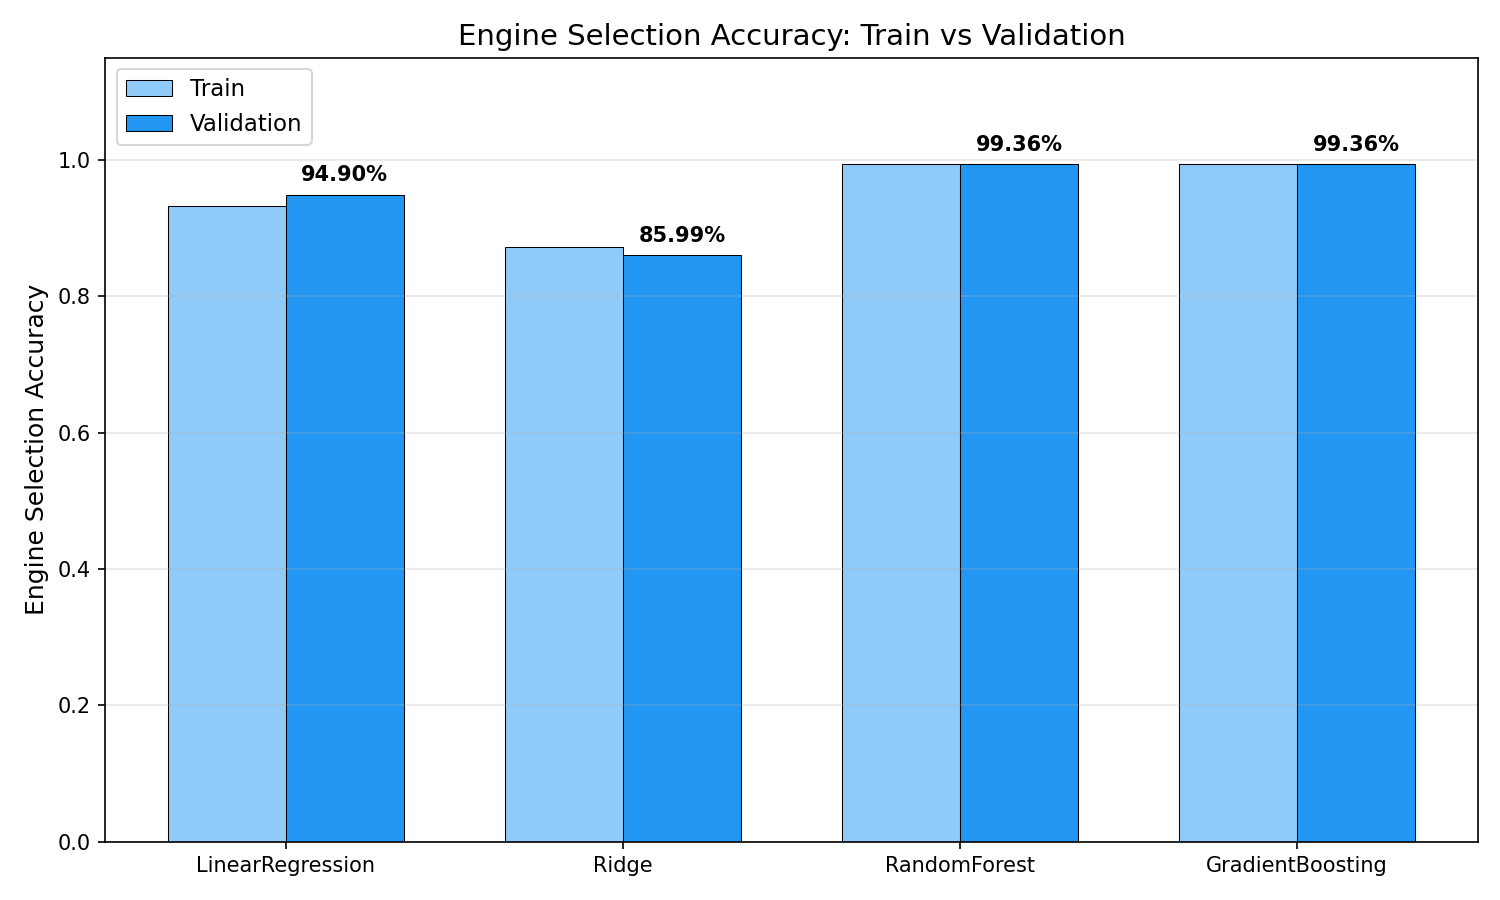
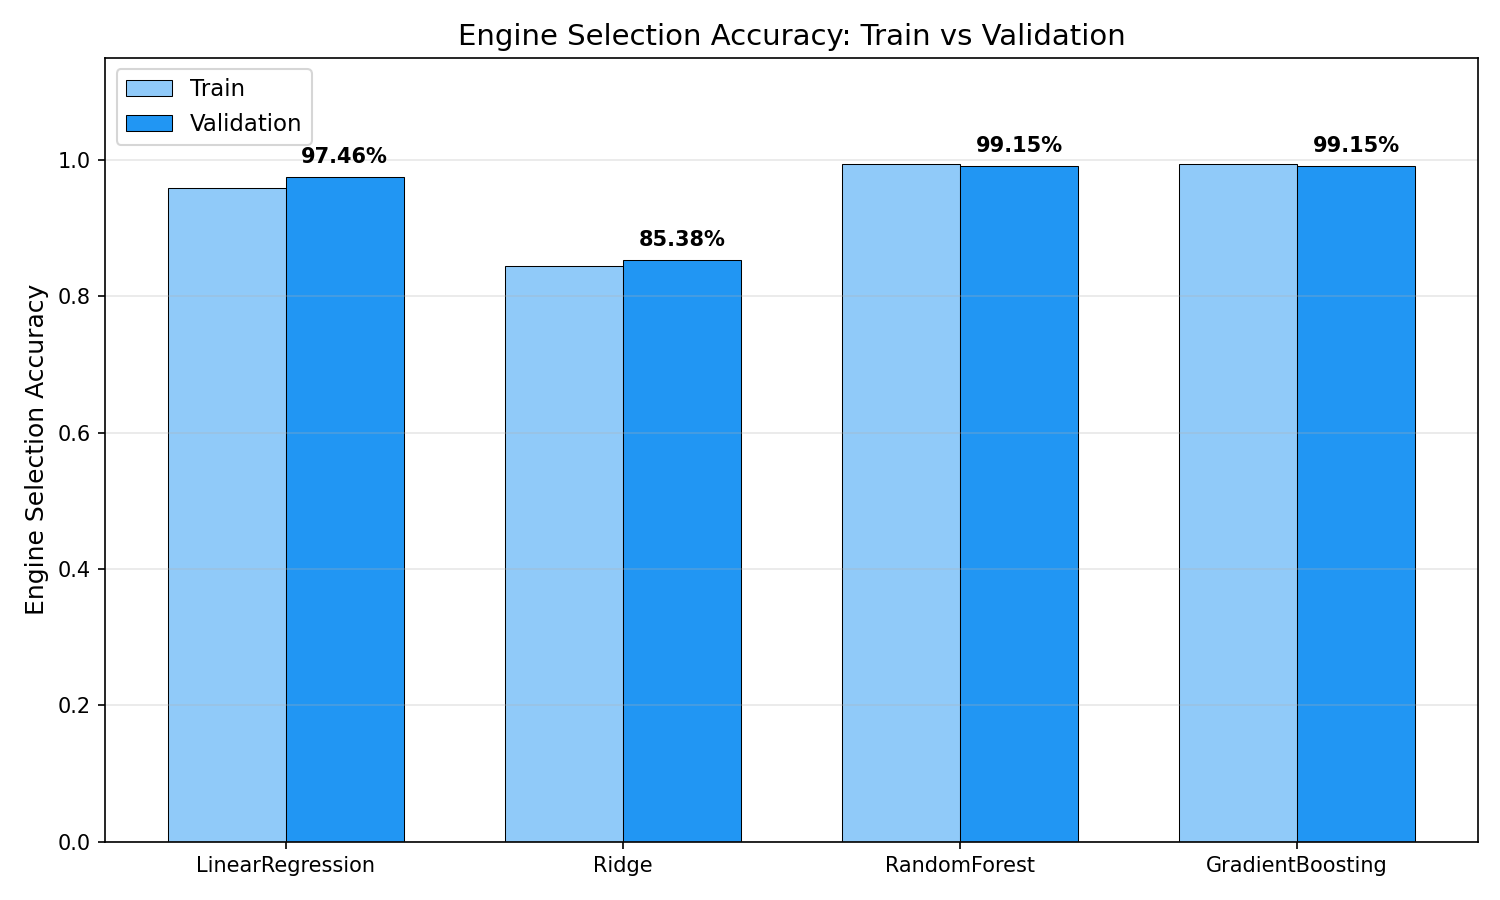
Model v2: retrain query routing models on updated TPC-H dataset and add evaluation results.

diff --git a/scripts/upload_models_to_hf.py b/scripts/upload_models_to_hf.py
@@ -1,0 +1,38 @@
+import os
+from huggingface_hub import HfApi, create_repo
+
+HF_USERNAME = "Rinil-Parmar"
+MODEL_REPO_NAME = "tpch-query-router-models"
+
+repo_id = f"{HF_USERNAME}/{MODEL_REPO_NAME}"
+
+SCRIPT_DIR = os.path.abspath(os.path.dirname(__file__))
+PROJECT_ROOT = os.path.abspath(os.path.join(SCRIPT_DIR, ".."))
+MODELS_DIR = os.path.join(PROJECT_ROOT, "models")
+
+files = [
+    (os.path.join(MODELS_DIR, "model_sqlite.joblib"), "model_sqlite.joblib"),
+    (os.path.join(MODELS_DIR, "model_duckdb.joblib"), "model_duckdb.joblib"),
+    (os.path.join(MODELS_DIR, "model_metadata.json"), "model_metadata.json"),
+]
+
+# Validate files
+for local_path, _ in files:
+    if not os.path.isfile(local_path):
+        raise FileNotFoundError(f"Missing file: {local_path}")
+
+create_repo(repo_id=repo_id, repo_type="model", private=False, exist_ok=True)
+
+api = HfApi()
+
+for local_path, path_in_repo in files:
+    api.upload_file(
+        path_or_fileobj=local_path,
+        path_in_repo=path_in_repo,
+        repo_id=repo_id,
+        repo_type="model",
+        commit_message="Model v2: retrained with larger dataset"
+    )
+    print(f"✅ Uploaded: {path_in_repo}")
+
+print(f"\n✅ Done: https://huggingface.co/{repo_id}")
